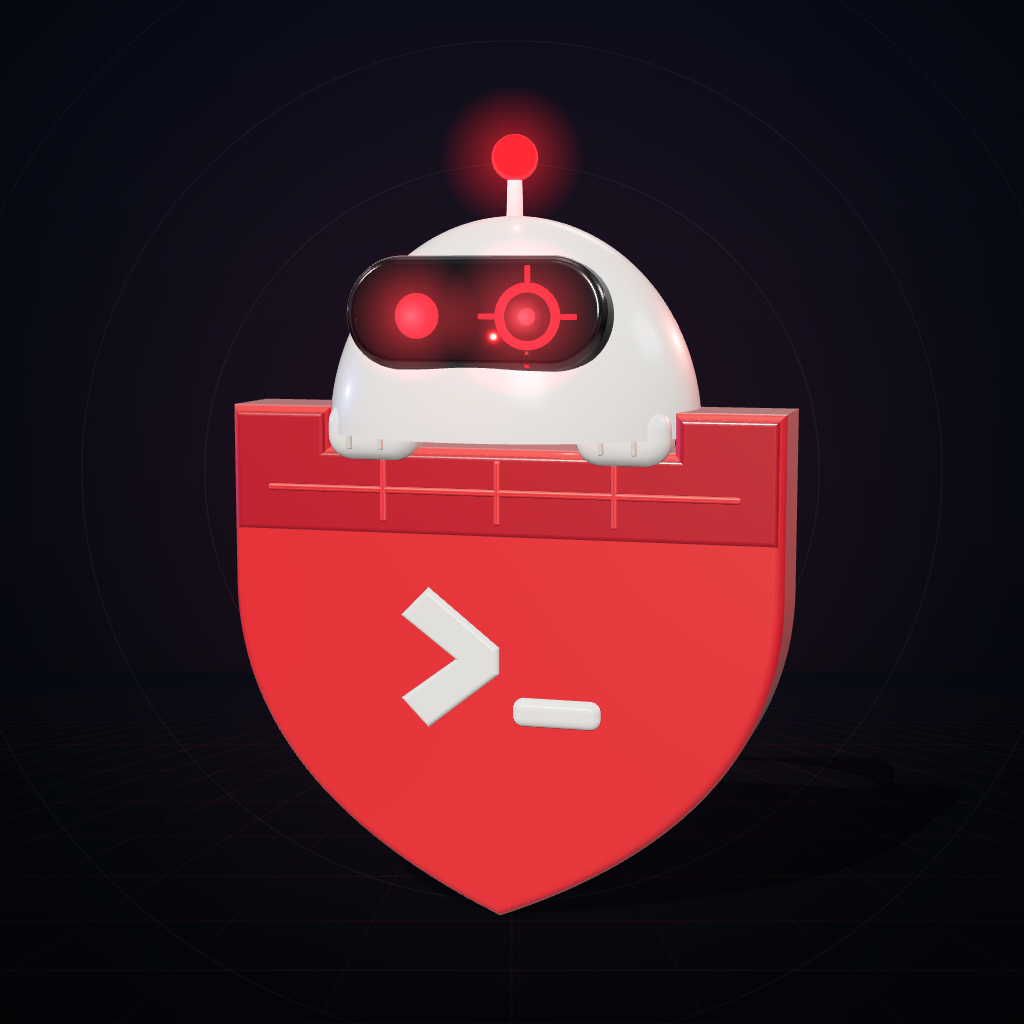
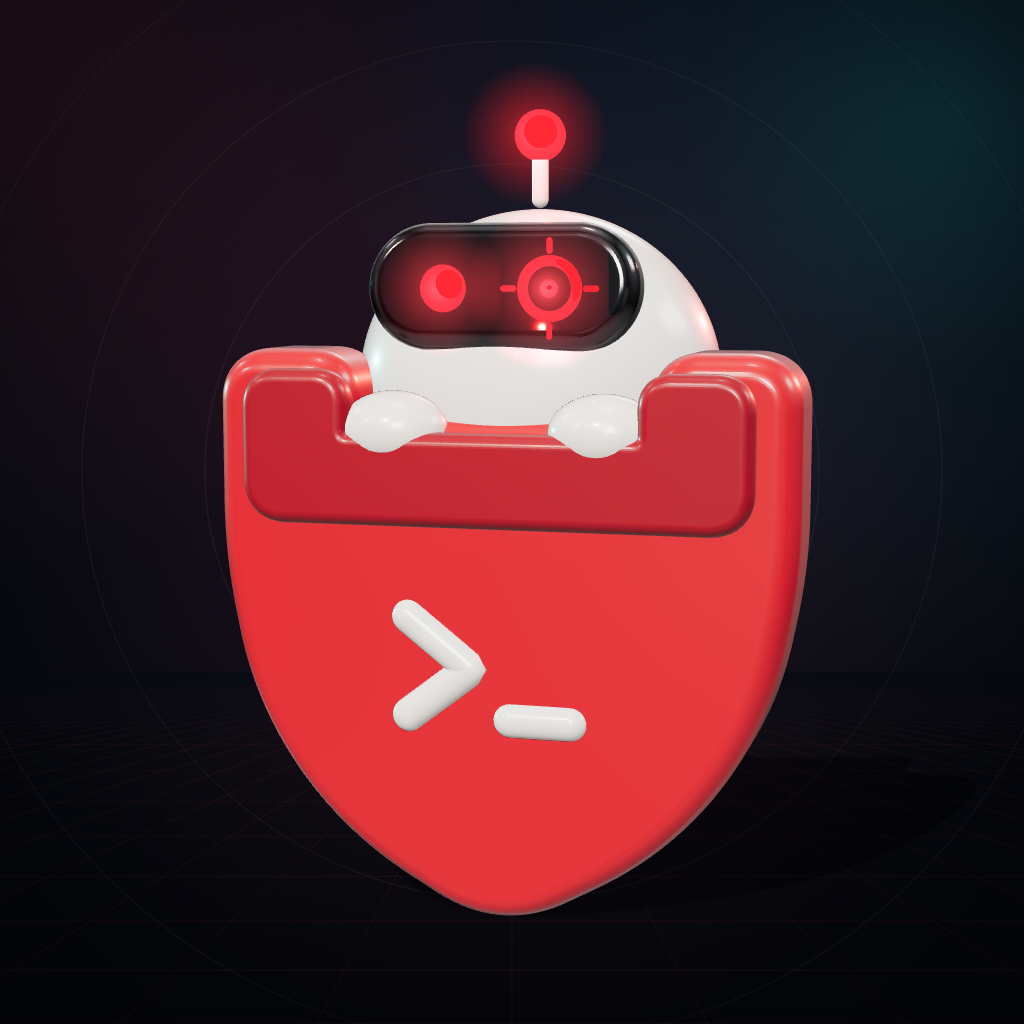
brand: rounder, softer 3D sentinel and rounded wordmark
- Puffy, rounded geometry: curved shield with soft battlements, full round
  head behind the wall, chubby hands, pill visor, tube-shaped >_ prompt.
- Rounded typefaces: Fredoka Bold for the 3D wordmark, Nunito ExtraBold
  for the tagline (both SIL OFL 1.1, credited in NOTICE).
- Two-tone ambient background: red "attack" glow behind the sentinel and
  a teal "defence" glow opposite, with a matching teal rim light.
- render.sh installs pinned font packages (scripts disabled) and still
  reproduces all three images pixel for pixel.

Claude-Session: https://claude.ai/code/session_01GE3jThfmoZH7k4uwyUiJi7

diff --git a/assets/brand/3d/scene.html b/assets/brand/3d/scene.html
@@ -2,19 +2,19 @@
 <html><head><meta charset="utf-8">
 <script type="importmap">{"imports":{"three":"./node_modules/three/build/three.module.js","three/addons/":"./node_modules/three/examples/jsm/"}}</script>
 <style>
-@font-face{font-family:IDB;src:url(fonts/InterDisplay-Black.otf)}
-@font-face{font-family:IDS;src:url(fonts/InterDisplay-SemiBold.otf)}
+@font-face{font-family:FRB;src:url(fonts/fredoka-latin-700-normal.woff2)}
+@font-face{font-family:NUN;src:url(fonts/nunito-latin-800-normal.woff2)}
 html,body{margin:0;padding:0;overflow:hidden;background:#070A10}
 #stage{position:relative;overflow:hidden}
 #bg{position:absolute;inset:0}
 canvas#gl{position:absolute;left:0;top:0}
-.word{position:absolute;font-family:IDB;letter-spacing:-.035em;line-height:1;white-space:nowrap}
+.word{position:absolute;font-family:FRB;letter-spacing:-.005em;line-height:1;white-space:nowrap;font-feature-settings:'liga' 0}
 .word span{display:inline-block}
 .red{background:linear-gradient(180deg,#FF8A86 0%,#F2484B 42%,#C8232C 100%);-webkit-background-clip:text;color:transparent;
- filter:drop-shadow(0 1px 0 #B01E27) drop-shadow(0 2px 0 #A11B23) drop-shadow(0 3px 0 #921820) drop-shadow(0 4px 0 #84151C) drop-shadow(0 5px 0 #741218) drop-shadow(0 10px 18px rgba(229,56,59,.45))}
+ filter:drop-shadow(0 2px 0 #B01E27) drop-shadow(0 2px 0 #A11B23) drop-shadow(0 2px 0 #921820) drop-shadow(0 2px 0 #84151C) drop-shadow(0 2px 0 #6E1217) drop-shadow(0 14px 22px rgba(229,56,59,.5))}
 .cream{background:linear-gradient(180deg,#FFFFFF 0%,#F7F1E8 45%,#D9D1C4 100%);-webkit-background-clip:text;color:transparent;
- filter:drop-shadow(0 1px 0 #BDB4A6) drop-shadow(0 2px 0 #A9A092) drop-shadow(0 3px 0 #958C7F) drop-shadow(0 4px 0 #81796C) drop-shadow(0 5px 0 #6D655A) drop-shadow(0 10px 18px rgba(0,0,0,.55))}
-.tag{position:absolute;font-family:IDS;color:#E9E3D9;letter-spacing:.22em;text-transform:uppercase;white-space:nowrap}
+ filter:drop-shadow(0 2px 0 #BDB4A6) drop-shadow(0 2px 0 #A9A092) drop-shadow(0 2px 0 #958C7F) drop-shadow(0 2px 0 #81796C) drop-shadow(0 2px 0 #635C52) drop-shadow(0 14px 22px rgba(0,0,0,.55))}
+.tag{position:absolute;font-family:NUN;color:#E9E3D9;letter-spacing:.2em;text-transform:uppercase;white-space:nowrap}
 .tag b{color:#F2484B;font-weight:inherit}
 </style></head>
 <body><div id="stage"><canvas id="bg"></canvas><canvas id="gl"></canvas><div id="txt"></div></div>
@@ -37,6 +37,12 @@ if (mode !== 'mark') {
   const gx = GL_LEFT + SQ/2, gy = H*0.46;
   g=c.createRadialGradient(gx,gy,0,gx,gy,Math.max(W,H)*0.55); g.addColorStop(0,'rgba(229,56,59,.30)'); g.addColorStop(.35,'rgba(229,56,59,.08)'); g.addColorStop(1,'rgba(229,56,59,0)');
   c.fillStyle=g; c.fillRect(0,0,W,H);
+  // cool teal 'defence' glow on the far side
+  const tx = mode==='avatar'? W*0.92 : W*0.9, ty = mode==='avatar'? H*0.12 : H*0.22;
+  g=c.createRadialGradient(tx,ty,0,tx,ty,Math.max(W,H)*0.6); g.addColorStop(0,'rgba(38,190,190,.26)'); g.addColorStop(.4,'rgba(38,170,180,.09)'); g.addColorStop(1,'rgba(38,170,180,0)');
+  c.fillStyle=g; c.fillRect(0,0,W,H);
+  // warm red wash from the opposite corner
+  g=c.createRadialGradient(0,0,0,0,0,Math.max(W,H)*0.55); g.addColorStop(0,'rgba(150,40,48,.28)'); g.addColorStop(1,'rgba(150,40,48,0)'); c.fillStyle=g; c.fillRect(0,0,W,H);
   // perspective floor grid
   const hy=H*0.66, vx=gx; c.lineWidth=1;
   for(let i=-30;i<=30;i++){ const x=vx+i*W*0.06; c.strokeStyle=`rgba(242,72,75,${0.10-Math.abs(i)*0.002})`;
@@ -74,57 +80,85 @@ const HALO=new THREE.SpriteMaterial({map:haloTex(),blending:THREE.AdditiveBlendi
 function halo(x,y,z,s){const sp=new THREE.Sprite(HALO);sp.position.set(x,y,z);sp.scale.set(s,s,1);return sp;}
 
 const bot = new THREE.Group(); scene.add(bot);
-const bevel = { bevelEnabled:true, bevelThickness:7, bevelSize:6, bevelSegments:10, curveSegments:48 };
 
-// shield with battlement top (same silhouette as the flat mark, y up)
-const sh = new THREE.Shape();
-sh.moveTo(-152,50); sh.lineTo(-104,50); sh.lineTo(-104,28); sh.lineTo(104,28); sh.lineTo(104,50); sh.lineTo(152,50);
-sh.lineTo(152,-46); sh.bezierCurveTo(152,-136,82,-192,0,-226); sh.bezierCurveTo(-82,-192,-152,-136,-152,-46); sh.closePath();
-const shield = new THREE.Mesh(new THREE.ExtrudeGeometry(sh,{depth:46,...bevel}), RED); shield.position.z=-23; shield.castShadow=true; bot.add(shield);
-// parapet band (darker, slightly proud of the face)
-const band = new THREE.Shape(); band.moveTo(-152,50); band.lineTo(-104,50); band.lineTo(-104,28); band.lineTo(104,28); band.lineTo(104,50); band.lineTo(152,50); band.lineTo(152,-12); band.lineTo(-152,-12); band.closePath();
-const bandM = new THREE.Mesh(new THREE.ExtrudeGeometry(band,{depth:4,bevelEnabled:true,bevelThickness:3,bevelSize:3,bevelSegments:6}), REDDEEP); bandM.position.z=24; bot.add(bandM);
-// brick grooves
-for (const x of [-66,0,66]) { const b=new THREE.Mesh(new RoundedBoxGeometry(4,36,3,2,1.5), RED); b.position.set(x,10,31); bot.add(b); }
-const hz=new THREE.Mesh(new RoundedBoxGeometry(270,4,3,2,1.5), RED); hz.position.set(0,10,31); bot.add(hz);
-
-// head dome behind the wall
-const dome = new THREE.Mesh(new THREE.SphereGeometry(100,96,64,0,Math.PI*2,0,Math.PI/2), CREAM);
-dome.scale.set(1.06,1.2,.9); dome.position.set(0,42,-6); dome.castShadow=true; bot.add(dome);
-// antenna
-const stalk=new THREE.Mesh(new THREE.CylinderGeometry(4,5,34,24), CREAM); stalk.position.set(0,172,-6); bot.add(stalk);
-const bulb=new THREE.Mesh(new THREE.SphereGeometry(13,48,32), GLOW); bulb.position.set(0,194,-6); bot.add(bulb);
-const bulbLight=new THREE.PointLight(0xff3a3a, 1.2e4, 300, 2); bulbLight.position.copy(bulb.position); bot.add(bulbLight);
-
-// visor: rounded capsule of glass on the dome
-const vs=new THREE.Shape(); const vw=132,vh=50,vr=25; vs.moveTo(-vw/2+vr,-vh/2); vs.lineTo(vw/2-vr,-vh/2); vs.absarc(vw/2-vr,0,vr,-Math.PI/2,Math.PI/2); vs.lineTo(-vw/2+vr,vh/2); vs.absarc(-vw/2+vr,0,vr,Math.PI/2,Math.PI*1.5);
-const visor=new THREE.Mesh(new THREE.ExtrudeGeometry(vs,{depth:14,bevelEnabled:true,bevelThickness:6,bevelSize:5,bevelSegments:10,curveSegments:40}), GLASS);
-visor.position.set(0,108,58); visor.rotation.x=-0.12; bot.add(visor);
-// eyes: a glowing dot and a targeting reticle
-const eyeL=new THREE.Mesh(new THREE.SphereGeometry(12,40,24), GLOW); eyeL.scale.z=.45; eyeL.position.set(-30,108,79); bot.add(eyeL);
-const ring=new THREE.Mesh(new THREE.TorusGeometry(15,2.6,16,64), GLOW); ring.position.set(30,108,79); bot.add(ring);
-const pupil=new THREE.Mesh(new THREE.SphereGeometry(4.5,24,16), GLOW); pupil.position.set(30,108,80); bot.add(pupil);
-for (const [dx,dy,w,h] of [[0,22,3,9],[0,-22,3,9],[22,0,9,3],[-22,0,9,3]]) { const t=new THREE.Mesh(new RoundedBoxGeometry(w,h,3,2,1), GLOW); t.position.set(30+dx,108+dy,79); bot.add(t); }
-bot.add(halo(-30,108,88,70)); bot.add(halo(30,108,88,84)); bot.add(halo(0,194,0,80));
-const eyeLight=new THREE.PointLight(0xff3a3a, 6e3, 220, 2); eyeLight.position.set(0,106,120); bot.add(eyeLight);
-
-// mitts gripping the wall
-for (const x of [-71,71]) {
-  const m=new THREE.Mesh(new RoundedBoxGeometry(52,34,40,6,14), CREAM); m.position.set(x,44,26); m.castShadow=true; bot.add(m);
-  for (const fx of [-9,9]) { const f=new THREE.Mesh(new RoundedBoxGeometry(2.5,20,4,2,1), new THREE.MeshStandardMaterial({color:0xC9C1B4,roughness:.6})); f.position.set(x+fx,44,47); bot.add(f); }
+// Polygon with a rounding radius per vertex (quadratic corners) -> soft, toy-like outlines.
+function roundedShape(pts) {
+  const sh = new THREE.Shape(); const n = pts.length;
+  const at = (i) => pts[(i + n) % n];
+  const towards = (p, q, r) => { const dx=q[0]-p[0], dy=q[1]-p[1], L=Math.hypot(dx,dy); const k=Math.min(r, L/2)/L; return [p[0]+dx*k, p[1]+dy*k]; };
+  for (let i = 0; i < n; i++) {
+    const p = at(i), r = p[2] || 0;
+    const a = towards(p, at(i-1), r), b = towards(p, at(i+1), r);
+    if (i === 0) sh.moveTo(a[0], a[1]); else sh.lineTo(a[0], a[1]);
+    sh.quadraticCurveTo(p[0], p[1], b[0], b[1]);
+  }
+  sh.closePath(); return sh;
 }
-// terminal prompt, raised on the shield face
-const pm = CREAM;
-const chev = new THREE.Shape(); chev.moveTo(-52,-60); chev.lineTo(-20,-84); chev.lineTo(-52,-108); chev.lineTo(-40,-120); chev.lineTo(-2,-90); chev.lineTo(-2,-78); chev.lineTo(-40,-48); chev.closePath();
-const chevM=new THREE.Mesh(new THREE.ExtrudeGeometry(chev,{depth:6,bevelEnabled:true,bevelThickness:4,bevelSize:3,bevelSegments:8}), pm); chevM.position.z=24; bot.add(chevM);
-const und=new THREE.Mesh(new RoundedBoxGeometry(50,16,12,4,6), pm); und.position.set(34,-112,30); bot.add(und);
+const puffy = (t, s, segs=18) => ({ bevelEnabled:true, bevelThickness:t, bevelSize:s, bevelSegments:segs, curveSegments:64 });
+
+// Shield: rounded battlements, curved shoulders, soft tip
+const SHIELD = [
+  [-152, 74, 16], [-98, 74, 14], [-98, 36, 10], [98, 36, 10], [98, 74, 14], [152, 74, 16],
+  [152, -30, 30], [136, -112, 46], [86, -180, 44], [0, -228, 36], [-86, -180, 44], [-136, -112, 46], [-152, -30, 30],
+];
+const shield = new THREE.Mesh(new THREE.ExtrudeGeometry(roundedShape(SHIELD), { depth: 34, ...puffy(20, 14) }), RED);
+shield.position.z = -17; shield.castShadow = true; bot.add(shield);
+
+// Parapet band: darker, rounded, slightly proud of the face
+const BAND = [
+  [-152, 74, 16], [-98, 74, 14], [-98, 36, 10], [98, 36, 10], [98, 74, 14], [152, 74, 16],
+  [152, -6, 20], [-152, -6, 20],
+];
+const band = new THREE.Mesh(new THREE.ExtrudeGeometry(roundedShape(BAND), { depth: 2, ...puffy(10, 8, 12) }), REDDEEP);
+band.scale.set(0.9, 0.9, 1); band.position.set(0, 4, 40); bot.add(band);
+
+// Head: a full, round dome sitting behind the wall
+const head = new THREE.Mesh(new THREE.SphereGeometry(108, 96, 64), CREAM);
+head.scale.set(1, 0.94, 0.86); head.position.set(0, 66, -62); head.castShadow = true; bot.add(head);
+
+// Antenna
+const stalk = new THREE.Mesh(new THREE.CapsuleGeometry(5, 26, 8, 24), CREAM); stalk.position.set(0, 186, -62); bot.add(stalk);
+const bulb = new THREE.Mesh(new THREE.SphereGeometry(15, 48, 32), GLOW); bulb.position.set(0, 210, -62); bot.add(bulb);
+
+// Visor: a puffy glass pill
+const vw = 134, vh = 50, vr = 25;
+const vs = new THREE.Shape(); vs.moveTo(-vw/2+vr, -vh/2); vs.lineTo(vw/2-vr, -vh/2); vs.absarc(vw/2-vr, 0, vr, -Math.PI/2, Math.PI/2);
+vs.lineTo(-vw/2+vr, vh/2); vs.absarc(-vw/2+vr, 0, vr, Math.PI/2, Math.PI*1.5);
+const visor = new THREE.Mesh(new THREE.ExtrudeGeometry(vs, { depth: 8, ...puffy(12, 10, 16) }), GLASS);
+visor.position.set(0, 122, 10); visor.rotation.x = -0.12; bot.add(visor);
+
+// Eyes: a glowing dot and a targeting reticle
+const EY = 122, EZ = 33;
+const eyeL = new THREE.Mesh(new THREE.SphereGeometry(13, 40, 24), GLOW); eyeL.scale.z = .5; eyeL.position.set(-30, EY, EZ); bot.add(eyeL);
+const ring = new THREE.Mesh(new THREE.TorusGeometry(15, 3, 20, 64), GLOW); ring.position.set(30, EY, EZ); bot.add(ring);
+const pupil = new THREE.Mesh(new THREE.SphereGeometry(5, 24, 16), GLOW); pupil.position.set(30, EY, EZ + 1); bot.add(pupil);
+for (const [dx, dy, w, h] of [[0,23,3.5,9],[0,-23,3.5,9],[23,0,9,3.5],[-23,0,9,3.5]]) {
+  const t = new THREE.Mesh(new THREE.CapsuleGeometry(Math.min(w,h)/2, Math.max(w,h)-Math.min(w,h), 6, 12), GLOW);
+  if (w > h) t.rotation.z = Math.PI/2; t.position.set(30+dx, EY+dy, EZ); bot.add(t);
+}
+bot.add(halo(-30, EY, EZ+6, 74)); bot.add(halo(30, EY, EZ+6, 88)); bot.add(halo(0, 210, -50, 84));
+const eyeLight = new THREE.PointLight(0xff3a3a, 6e3, 220, 2); eyeLight.position.set(0, EY, 130); bot.add(eyeLight);
+const bulbLight = new THREE.PointLight(0xff3a3a, 1.2e4, 300, 2); bulbLight.position.copy(bulb.position); bot.add(bulbLight);
+
+// Round hands gripping the wall
+for (const x of [-60, 60]) {
+  const m = new THREE.Mesh(new THREE.SphereGeometry(27, 48, 32), CREAM); m.scale.set(1.15, 0.8, 0.95);
+  m.position.set(x, 44, 30); m.castShadow = true; bot.add(m);
+}
+
+// Terminal prompt as soft rounded tubes, raised on the shield face
+const PZ = 34, TR = 10;
+const chev = new THREE.CatmullRomCurve3([new THREE.Vector3(-50,-60,PZ), new THREE.Vector3(-14,-88,PZ), new THREE.Vector3(-50,-116,PZ)], false, 'catmullrom', 0.02);
+bot.add(new THREE.Mesh(new THREE.TubeGeometry(chev, 64, TR, 24, false), CREAM));
+for (const v of [[-50,-60],[-50,-116]]) { const cap = new THREE.Mesh(new THREE.SphereGeometry(TR, 24, 16), CREAM); cap.position.set(v[0], v[1], PZ); bot.add(cap); }
+const und = new THREE.Mesh(new THREE.CapsuleGeometry(TR, 34, 8, 24), CREAM); und.rotation.z = Math.PI/2; und.position.set(26, -116, PZ); bot.add(und);
 
 // lights
 scene.add(new THREE.HemisphereLight(0xdfe8ff, 0x2a0a0c, 0.35));
 const key=new THREE.DirectionalLight(0xfff4ea, 2.0); key.position.set(-260,420,520); key.castShadow=true; key.shadow.mapSize.set(2048,2048);
 Object.assign(key.shadow.camera,{left:-400,right:400,top:400,bottom:-400,near:1,far:2000}); scene.add(key);
 const rim=new THREE.DirectionalLight(0xff4044, 3.2); rim.position.set(380,160,-420); scene.add(rim);
-const rim2=new THREE.DirectionalLight(0x6a8cff, 1.0); rim2.position.set(-420,60,-300); scene.add(rim2);
+const rim2=new THREE.DirectionalLight(0x3fd6d0, 1.6); rim2.position.set(-420,60,-300); scene.add(rim2);
 // contact shadow
 const shadowPlane=new THREE.Mesh(new THREE.PlaneGeometry(900,900), new THREE.ShadowMaterial({opacity:.35}));
 shadowPlane.rotation.x=-Math.PI/2; shadowPlane.position.y=-232; shadowPlane.receiveShadow=true; scene.add(shadowPlane);
